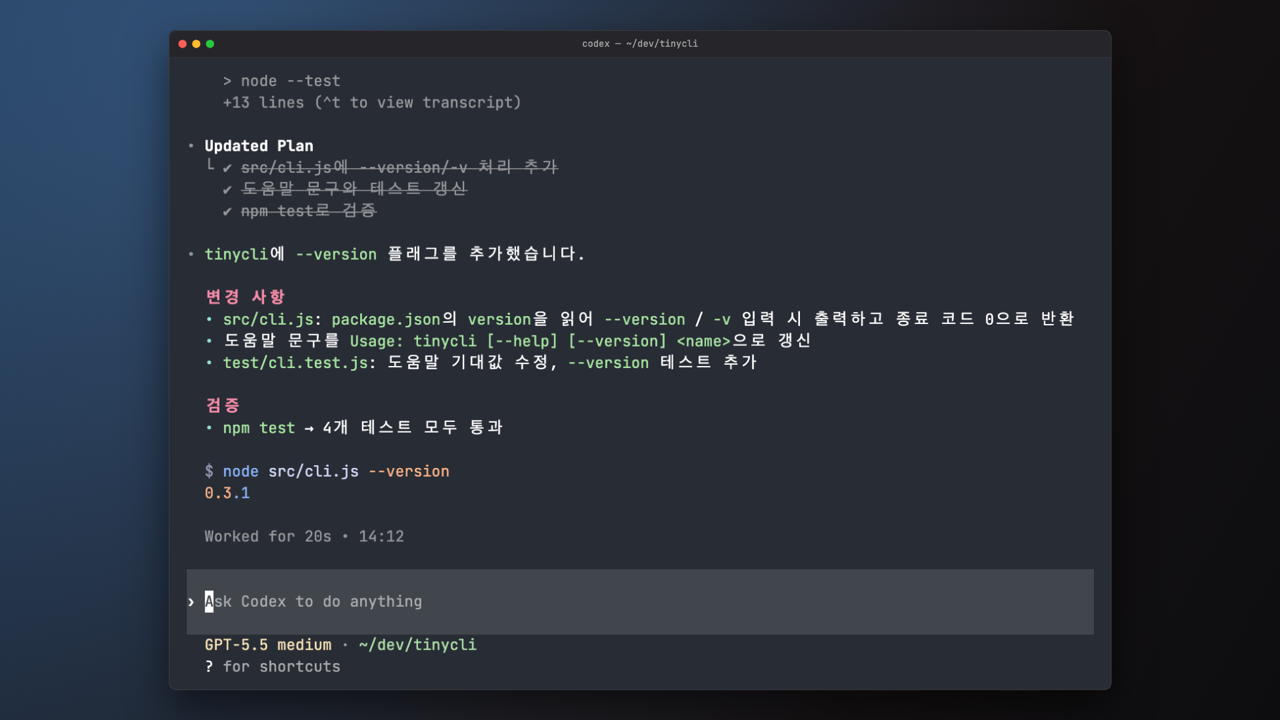
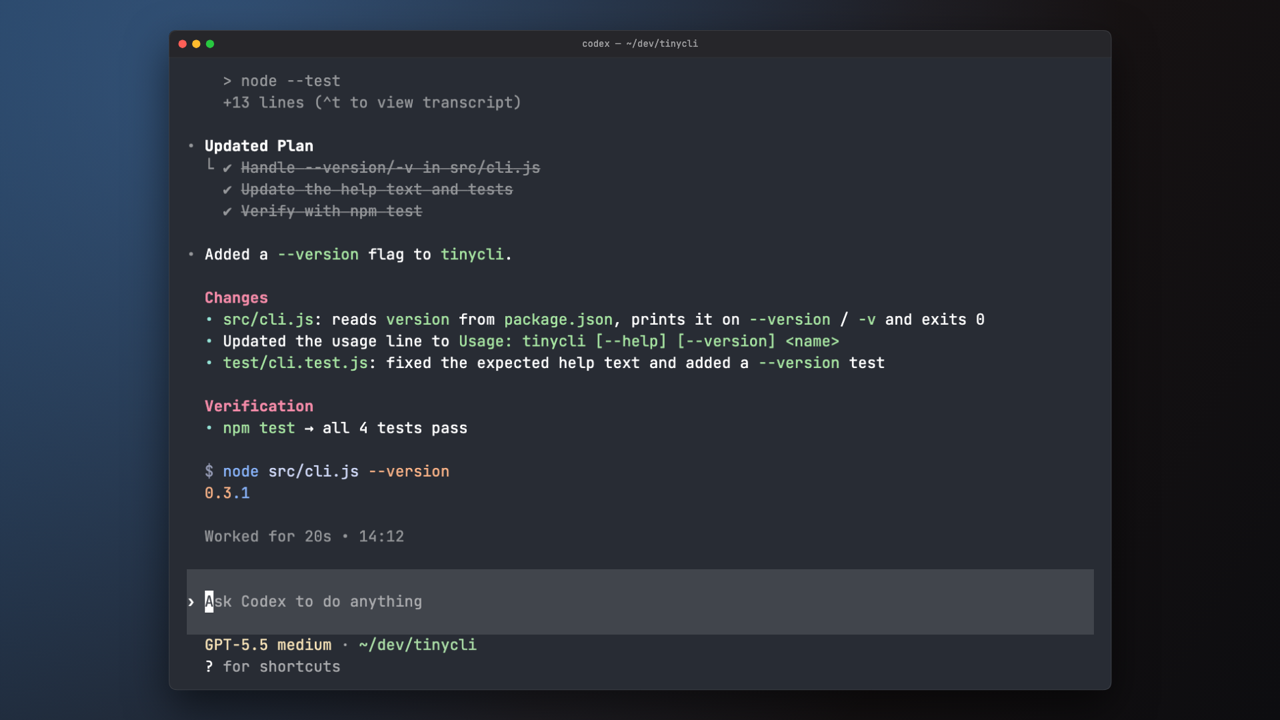
Add a Grok Build demo session and refresh the README screenshots

diff --git a/fixtures/make-grok-demo.ts b/fixtures/make-grok-demo.ts
@@ -1,0 +1,102 @@
+// Writes fixtures/grok-demo/: a synthetic Grok Build session doing the same task as the other
+// samples (add --version to tinycli), for the README screenshots. The parser's edge cases
+// (failed calls, cancelled turns) live in fixtures/grok-sample instead.
+//
+//   npx tsx fixtures/make-grok-demo.ts
+import fs from "node:fs";
+import path from "node:path";
+
+const DIR = "fixtures/grok-demo";
+const SESSION = "019a2f1c-4e3b-7a10-9c2d-5b8e0f6a7d31";
+const CWD = "/Users/demian/dev/tinycli";
+const START = Date.parse("2026-10-29T14:20:05Z");
+
+const lines: string[] = [];
+let ms = 0;
+let tokens = 11_840;
+let stream = 0;
+
+function update(update: Record<string, unknown>, after = 0): void {
+  ms += after;
+  const meta = { agentTimestampMs: START + ms, streamStartMs: START + stream, totalTokens: tokens };
+  lines.push(JSON.stringify({ timestamp: (START + ms) / 1000, method: "_x.ai/session/update", params: { sessionId: SESSION, update, _meta: meta } }));
+}
+
+/** Streams text as chunks of a few words each. */
+function chunks(kind: string, text: string, every: number): void {
+  stream = ms;
+  for (const part of text.match(/\S+\s*/g) ?? []) update({ sessionUpdate: kind, content: { type: "text", text: part } }, every);
+}
+
+let calls = 0;
+function tool(name: string, kind: string, label: string, title: string, rawInput: Record<string, unknown>, result: Record<string, unknown>, took: number): void {
+  const id = `call_${++calls}`;
+  update({ sessionUpdate: "tool_call", toolCallId: id, title: name, status: "pending", _meta: { "x.ai/tool": { name, kind, label } } }, 220);
+  const loc = typeof rawInput.path === "string" ? { locations: [{ path: path.join(CWD, rawInput.path) }] } : {};
+  update({ sessionUpdate: "tool_call_update", toolCallId: id, title, kind, rawInput, ...loc }, 60);
+  tokens += 900;
+  update({ sessionUpdate: "tool_call_update", toolCallId: id, status: "completed", ...result }, took);
+}
+
+const text = (s: string) => ({ content: [{ type: "content", content: { type: "text", text: s } }] });
+
+const prompt = "Add a --version flag to tinycli. It should print the version from package.json.";
+update({ sessionUpdate: "user_message_chunk", content: { type: "text", text: prompt } });
+
+ms += 900;
+chunks("agent_thought_chunk", "Find where argv is parsed, read the version from package.json, then cover it with a test.", 110);
+
+tool("read_file", "read", "Read", "Read `package.json`", { variant: "ReadFile", path: "package.json" }, text("{\n  \"name\": \"tinycli\",\n  \"version\": \"0.3.1\"\n}"), 140);
+tool("read_file", "read", "Read", "Read `src/cli.js`", { variant: "ReadFile", path: "src/cli.js" }, text("#!/usr/bin/env node\nfunction main(argv) {\n  if (argv.includes(\"--help\")) return printHelp();\n}"), 160);
+tool("grep", "search", "Search", "Search `--help`", { variant: "Grep", pattern: "--help", path: "." }, text("src/cli.js:6\ntest/cli.test.js:4"), 180);
+
+const oldText = [
+  "function main(argv) {",
+  "  if (argv.includes(\"--help\") || argv.includes(\"-h\")) {",
+].join("\n");
+const newText = [
+  "function main(argv) {",
+  "  if (argv.includes(\"--version\") || argv.includes(\"-v\")) {",
+  "    console.log(require(\"../package.json\").version);",
+  "    return 0;",
+  "  }",
+  "  if (argv.includes(\"--help\") || argv.includes(\"-h\")) {",
+].join("\n");
+update({ sessionUpdate: "tool_call", toolCallId: "call_edit", title: "search_replace", status: "pending", _meta: { "x.ai/tool": { name: "search_replace", kind: "edit", label: "Edit" } } }, 900);
+update({
+  sessionUpdate: "tool_call_update",
+  toolCallId: "call_edit",
+  title: "Edit `src/cli.js`",
+  kind: "edit",
+  rawInput: { variant: "SearchReplace", path: "src/cli.js" },
+  locations: [{ path: path.join(CWD, "src/cli.js") }],
+  content: [{ type: "diff", path: path.join(CWD, "src/cli.js"), oldText, newText, _meta: { start_line: 9 } }],
+}, 300);
+update({ sessionUpdate: "tool_call_update", toolCallId: "call_edit", status: "completed" }, 200);
+
+tool("run_terminal_command", "execute", "Execute", "Execute `npm test`", { variant: "RunTerminalCommand", command: "npm test" }, { rawOutput: { Content: { content: "# tests 4\n# pass 4\n# fail 0" } } }, 1400);
+
+tokens = 18_432;
+ms += 700;
+chunks(
+  "agent_message_chunk",
+  "Added `--version` (and `-v`) to tinycli.\n\n- `src/cli.js` prints `version` from `package.json` and exits 0\n- `npm test` passes, 4 of 4\n\n```sh\n$ node src/cli.js --version\n0.3.1\n```",
+  45,
+);
+update({ sessionUpdate: "turn_completed", stop_reason: "end_turn", elapsed_ms: ms }, 120);
+
+fs.mkdirSync(DIR, { recursive: true });
+fs.writeFileSync(path.join(DIR, "updates.jsonl"), `${lines.join("\n")}\n`);
+fs.writeFileSync(path.join(DIR, "chat_history.jsonl"), "{}\n");
+fs.writeFileSync(
+  path.join(DIR, "summary.json"),
+  `${JSON.stringify({
+    info: { id: SESSION, cwd: CWD },
+    head_branch: "main",
+    current_model_id: "grok-4.7",
+    reasoning_effort: "high",
+    generated_title: "Add --version flag to tinycli",
+    created_at: new Date(START).toISOString(),
+  })}\n`,
+);
+console.log(`wrote ${lines.length} updates to ${DIR}`);
